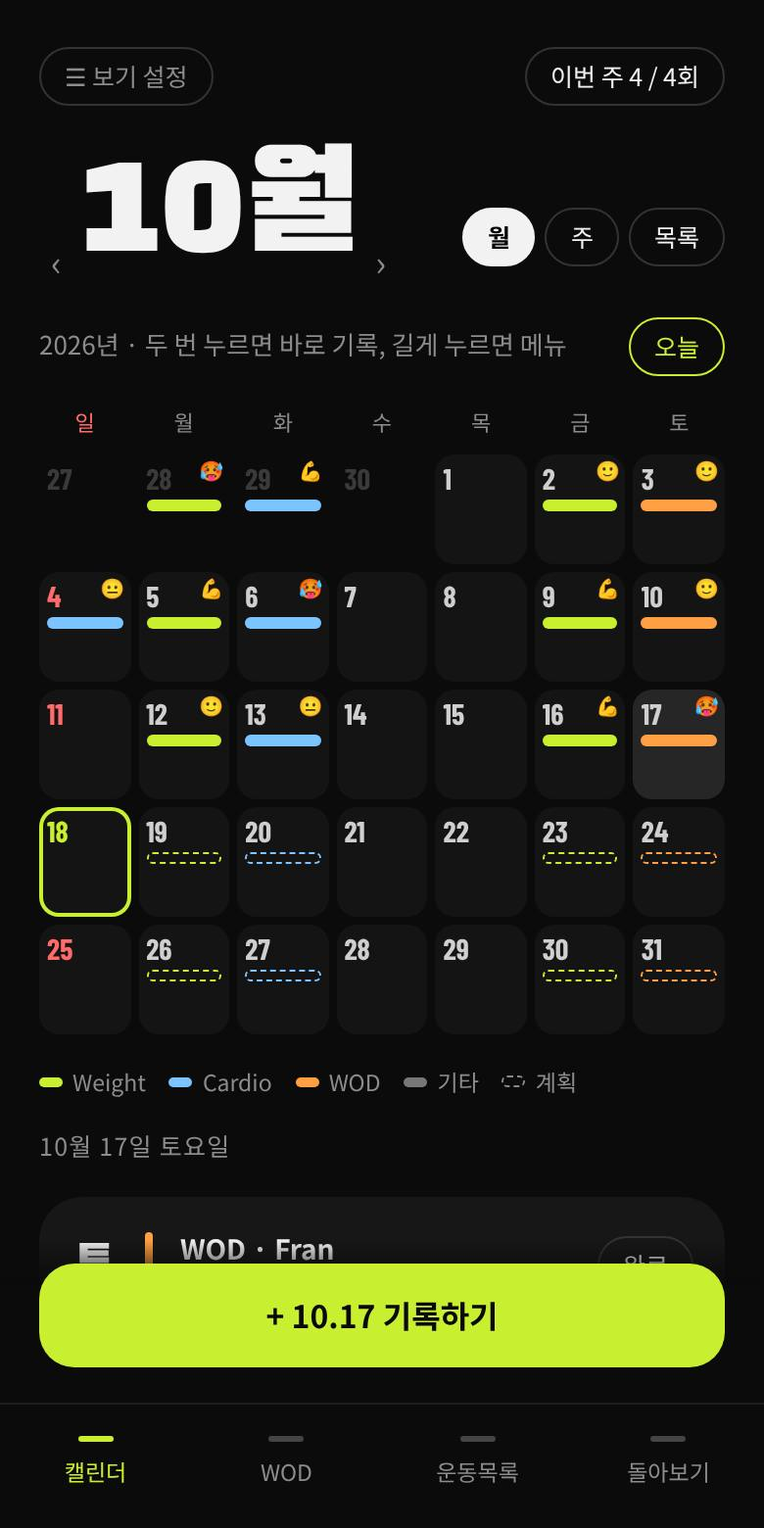
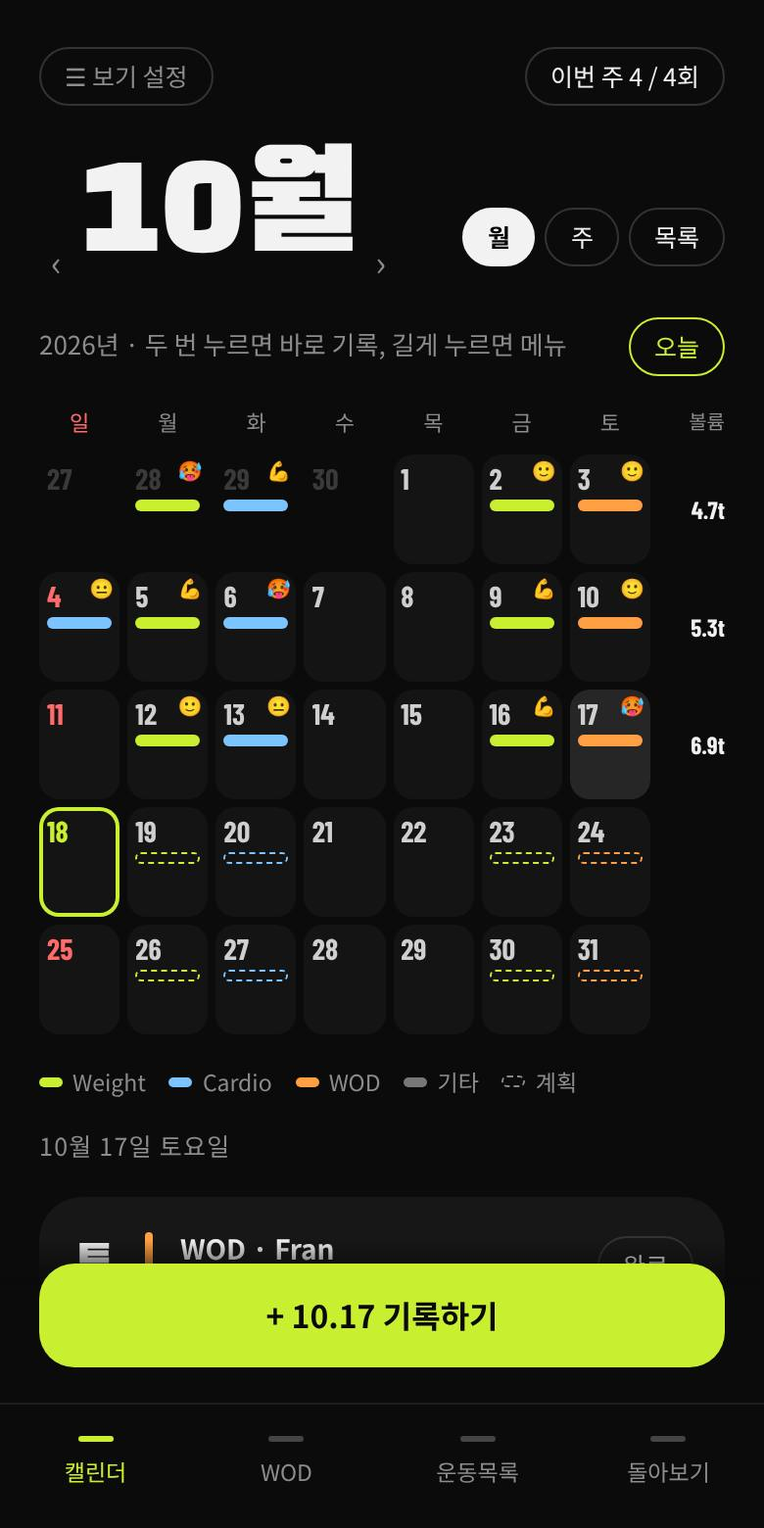
Volume: per card, per day, week/month in 돌아보기, week column in the calendar; clearer section divider
Claude-Session: https://claude.ai/code/session_019eoxjeUYsC1xCLQy9vy9QX

diff --git a/index.html b/index.html
@@ -80,6 +80,9 @@ button{cursor:pointer;-webkit-tap-highlight-color:transparent}
 .dow span{text-align:center;font-size:11px;color:var(--mut);padding-bottom:4px}
 .dow span:first-child{color:var(--red)}
 .wk{margin-top:4px}
+.cal.wvol .dow,.cal.wvol .wk{grid-template-columns:repeat(7,minmax(0,1fr)) 34px}
+.wk .wv{align-self:center;text-align:right;font-family:var(--num);font-weight:700;font-size:12.5px;color:var(--ink);white-space:nowrap}
+.dow .wv{text-align:right;font-size:10px}
 .dc{height:56px;min-width:0;border-radius:10px;background:#141414;border:0;padding:5px 4px;display:flex;flex-direction:column;gap:3px;position:relative;text-align:left;-webkit-touch-callout:none}
 .dc .d{font-family:var(--num);font-weight:700;font-size:15px;color:#cfcfcf;line-height:1}
 .dc.sun .d{color:var(--red)}
@@ -163,6 +166,21 @@ textarea.inp{resize:vertical;min-height:70px;line-height:1.6}
 .guide .gdots i{width:7px;height:7px;border-radius:9px;background:#333}
 .guide .gdots i.on{background:var(--lime);width:20px}
 .guide .gbtn{flex:none;margin:0 20px;width:auto;box-sizing:border-box}
+.vchart{display:flex;align-items:flex-end;gap:6px;height:140px}
+.vchart button{flex:1;min-width:0;height:100%;display:flex;flex-direction:column;justify-content:flex-end;align-items:center;gap:5px;background:none;border:0;padding:0}
+.vchart .b{width:100%;border-radius:6px 6px 3px 3px;background:#3a3a3a}
+.vchart .on .b{background:var(--lime)}
+.vchart .l{font-size:10.5px;color:var(--mut);white-space:nowrap;font-variant-numeric:tabular-nums}
+.vchart .on .l{color:var(--lime);font-weight:700}
+.vchart .v{font-family:var(--num);font-weight:700;font-size:13px}
+.vrow{display:flex;align-items:center;gap:10px;padding:8px 0;border-top:1px solid var(--line)}
+.vrow:first-child{border-top:0}
+.vrow i{display:inline-block;width:8px;height:8px;border-radius:50%;margin-right:7px;vertical-align:middle}
+.vrow .vtrack{flex:0 0 80px;height:8px;border-radius:4px;background:#262626;overflow:hidden;display:flex}
+.vrow .n{font-size:18px;min-width:56px;text-align:right}
+.cvol{border-top:1px solid rgba(0,0,0,.15);padding-top:10px;display:flex;flex-direction:column;gap:6px}
+.cvol .li{display:flex;justify-content:space-between;align-items:baseline;gap:10px;padding:5px 0;border-top:1px solid rgba(0,0,0,.12);font-weight:500}
+.cvol .li:first-child{border-top:0}
 .wsum{font-weight:500;line-height:1.55;padding:10px 0;border-top:1px solid rgba(0,0,0,.15);border-bottom:1px solid rgba(0,0,0,.15)}
 .wsum .sh{font-weight:800;margin-top:6px}
 .wsum .sh:first-child{margin-top:0}
@@ -189,7 +207,7 @@ textarea.inp{resize:vertical;min-height:70px;line-height:1.6}
 /* WOD card: frame (format + pattern chips) then exercise rows */
 .wc{display:flex;flex-direction:column;gap:10px}
 .part{display:flex;flex-direction:column;gap:8px}
-.part + .part{margin-top:18px;padding-top:20px;border-top:2px solid #2c2c2c}
+.part + .part{margin-top:22px;padding-top:22px;border-top:3px solid #5a5a5a}
 .lbl{font-size:12px;color:var(--mut);font-weight:700}
 .frame{background:#000;border:1px solid #2c2c2c;border-radius:16px;padding:10px;display:flex;flex-direction:column;gap:8px}
 .chips2{display:flex;gap:6px;flex-wrap:wrap}
@@ -621,6 +639,36 @@ function series(exId) {
   for (const s of sorted()) { let b = 0; for (const it of s.items) { if (it.type === 'ex' && it.exId === exId) for (const x of it.sets) b = Math.max(b, conv(e1rm(+x.w, +x.r), wuOf(it), U())); if (it.type === 'wod') for (const m of wodMoves(it)) if (m.exId === exId && m.sets) for (const x of m.sets) b = Math.max(b, conv(e1rm(+x.w, +x.r), m.u || 'kg', U())); } if (b) pts.push({date:s.date, v:Math.round(b*10)/10}); }
   return pts;
 }
+/* volume = weight x reps, added up in the chosen unit; moves without a weight count as reps, distances as km */
+const repsIn = q => { q = String(q || '').trim().replace(/\s*회$/, ''); let m;
+  if (/^\d+$/.test(q)) return +q;
+  if (/^\d+(\s*-\s*\d+)+$/.test(q)) return q.split('-').reduce((a, x) => a + +x, 0);
+  if ((m = q.match(/^(\d+)\s*[x×*]\s*(\d+)$/i))) return m[1] * m[2];
+  return 0; };
+const kmIn = q => { const m = String(q || '').trim().match(/^([\d.]+)\s*(km|m)$/i); return m ? (m[2].toLowerCase() === 'm' ? m[1] / 1000 : +m[1]) : 0; };
+const wIn = m => { const x = String(m.w || '').match(/[\d.]+/); return x ? conv(+x[0], mvUnit(m), U()) : 0; };
+function volOfItem(it) {
+  const v = {kg:0, reps:0, km:0, by:{}}, add = (name, kg) => { v.kg += kg; if (name) v.by[name] = (v.by[name] || 0) + kg; };
+  const sets = (name, list, fields, u, unit) => { for (const x of list || []) { const w = +x.w || 0, r = +x.r || 0;
+    if (w && r && fields.includes('w')) add(name, conv(w * r, u, U())); else if (r) v.reps += r;
+    if (x.d) v.km += unit === 'm' ? x.d / 1000 : +x.d || 0; } };
+  if (it.type === 'ex') { const ex = exById(it.exId) || {name:'', unit:'km'}; sets(ex.name, it.sets, it.fields || [], wuOf(it), ex.unit); return v; }
+  for (const p of it.parts || []) {
+    const rr = partRes(p) === 'rr' || (it.parts.length === 1 && resType(it) === 'rr'), rv = String((it.parts.length > 1 ? p.res?.v : it.res?.v) || '');
+    const rounds = pList(p).filter(x => x.t === 'rounds' && +x.v).reduce((a, x) => a * +x.v, 1) * (rr && /^\d+/.test(rv) ? +rv.match(/^\d+/)[0] : 1);
+    p.moves.forEach((m, j) => { const name = (m.n || '').trim(); if (!name) return;
+      if (m.sets?.length) return sets(name, m.sets, m.fields || ['w', 'r'], m.u || 'kg', mvEx(m)?.unit);
+      const r = repsIn(m.q) || (m.q ? 0 : repsIn(schemeAt(p, j))), w = wIn(m);
+      if (r && w) add(name, r * w * rounds); else if (r) v.reps += r * rounds; else v.km += kmIn(m.q) * rounds; });
+  }
+  return v;
+}
+const volSum = list => list.reduce((a, b) => ({kg:a.kg + b.kg, reps:a.reps + b.reps, km:a.km + b.km}), {kg:0, reps:0, km:0});
+const volOfSession = s => volSum(s.items.map(volOfItem));
+const volBetween = (from, to) => volSum(state.sessions.filter(s => s.date >= from && s.date <= to).map(volOfSession));
+const kgTxt = v => Math.round(v).toLocaleString('en-US');
+const kgShort = v => v >= 1000 ? `${Math.round(v / 100) / 10}${U() === 'kg' ? 't' : 'k'}` : `${Math.round(v)}`;
+const kmTxt = v => `${Math.round(v * 10) / 10}km`;
 function weekStats() {
   const days = new Set(state.sessions.map(s => s.date)), mon = mondayOf(new Date());
   const cnt = start => { let c = 0; for (let i = 0; i < 7; i++) if (days.has(ymd(addDays(start, i)))) c++; return c; };
@@ -657,11 +705,11 @@ function render(keep) {
 /* usage guide: example screenshots shown on the very first launch and again from 돌아보기 */
 const GUIDE_KEY = 'setlog-guide-seen';
 const GUIDE = [
-  ['캘린더', '날짜를 누르면 그날 기록이 보여요. 칸 아래 색 막대는 기록, 테두리만 있는 건 계획이에요.'],
+  ['캘린더', '날짜를 누르면 그날 기록과 볼륨이 보여요. 색 막대는 기록, 테두리만 있는 건 계획, 오른쪽 숫자는 그 주 볼륨이에요.'],
   ['기록하기', '+ 구성에서 세트를 넣으면 운동마다 세트별 무게와 횟수를 적어요. 지난 무게가 미리 채워져요.'],
   ['WOD 기록', '+ 구성을 누를 때마다 For Time, 21-15-9 같은 줄이 하나씩 쌓여요. + 구간은 A, B로 나눠 기록해요.'],
   ['WOD 모음', '네임드 WOD와 내가 만든 WOD를 저장해 두고 바로 불러와요. 네임드 WOD도 직접 추가할 수 있어요.'],
-  ['돌아보기', '주간 목표 연속 기록과 최근 12주, WOD 최고 기록을 봐요. 예상 1RM은 운동목록에서 운동을 누르면 나와요.']
+  ['돌아보기', '주간 목표 연속 기록과 주·달 볼륨, 최근 12주를 봐요. 예상 1RM은 운동목록에서 운동을 누르면 나와요.']
 ];
 function showGuide() {
   const g = $('#guide');
@@ -681,15 +729,16 @@ function viewCal() {
   const [vy, vm] = ui.month.split('-').map(Number), wk = weekStats(), t = TODAY();
   let body = '';
   if (ui.view === 'month') {
-    const first = new Date(vy, vm - 1, 1), start = addDays(first, -first.getDay()), rows = Math.ceil((first.getDay() + new Date(vy, vm, 0).getDate()) / 7);
+    const wv = state.weekVol !== false, first = new Date(vy, vm - 1, 1), start = addDays(first, -first.getDay()), rows = Math.ceil((first.getDay() + new Date(vy, vm, 0).getDate()) / 7);
     let h = '';
     for (let r = 0; r < rows; r++) { h += '<div class="wk">';
       for (let c = 0; c < 7; c++) { const d = addDays(start, r*7 + c), ds = ymd(d), ev = entriesOn(ds), mood = sessionsOn(ds)[0]?.mood;
         h += `<button class="dc ${d.getMonth() !== vm - 1 ? 'out' : ''} ${c === 0 ? 'sun' : ''} ${ds === t ? 'today' : ''} ${ds === ui.sel ? 'sel' : ''}" data-date="${ds}" aria-label="${dayLabel(ds)} ${ev.length ? ev.map(e => e.title).join(', ') : '기록 없음'}">
           <span class="d">${d.getDate()}</span>${mood ? `<span class="s">${mood}</span>` : ''}
           ${ev.slice(0, 2).map(e => `<span class="b ${e.kind === 'p' ? 'plan' : ''}" style="${e.kind === 'p' ? 'border-color' : 'background'}:${catOf(e.cat).color}"></span>`).join('')}</button>`; }
+      if (wv) { const v = volBetween(ymd(addDays(start, r*7)), ymd(addDays(start, r*7 + 6))); h += `<span class="wv">${v.kg ? kgShort(v.kg) : v.km ? kmTxt(v.km) : ''}</span>`; }
       h += '</div>'; }
-    body = `<div class="cal" id="cal"><div class="dow">${WD.map(w => `<span>${w}</span>`).join('')}</div>${h}</div>`;
+    body = `<div class="cal ${wv ? 'wvol' : ''}" id="cal"><div class="dow">${WD.map(w => `<span>${w}</span>`).join('')}${wv ? '<span class="wv">볼륨</span>' : ''}</div>${h}</div>`;
   } else if (ui.view === 'week') {
     const s = parseYmd(ui.sel), ws = addDays(s, -s.getDay());
     body = `<div class="card list cal" id="cal" style="padding:6px 16px">${Array.from({length:7}, (_, i) => { const d = addDays(ws, i), ds = ymd(d), ev = entriesOn(ds);
@@ -723,13 +772,43 @@ function entryRow(e, ds) {
 }
 
 /* day view */
+/* the whole day's volume, split by record */
+/* 돌아보기: volume by week (last 8, Monday start) or by month (last 6); a bar can be picked to see its split */
+function volPeriods(mode) { const now = new Date(), out = [];
+  if (mode === 'm') for (let k = 5; k >= 0; k--) { const a = new Date(now.getFullYear(), now.getMonth() - k, 1), b = new Date(a.getFullYear(), a.getMonth() + 1, 0); out.push({from:ymd(a), to:ymd(b), label:`${a.getMonth() + 1}월`, now:!k}); }
+  else for (let k = 7; k >= 0; k--) { const a = addDays(mondayOf(now), -7 * k); out.push({from:ymd(a), to:ymd(addDays(a, 6)), label:k ? md(ymd(a)) : '이번 주', now:!k}); }
+  return out.map(p => { const ss = state.sessions.filter(s => s.date >= p.from && s.date <= p.to); return {...p, ss, v:volSum(ss.map(volOfSession))}; }); }
+function volCardHtml() {
+  const mode = ui.volMode || 'w', ps = volPeriods(mode), k = ui.volSel ?? ps.length - 1, sel = ps[Math.min(k, ps.length - 1)], prev = ps[ps.indexOf(sel) - 1];
+  const max = Math.max(...ps.map(p => p.v.kg), 1), big = mode === 'm' && sel.v.kg >= 10000;
+  const byCat = {}; for (const s of sel.ss) { const c = sessionCat(s), v = volOfSession(s); byCat[c] = byCat[c] || {kg:0, km:0, reps:0}; byCat[c].kg += v.kg; byCat[c].km += v.km; byCat[c].reps += v.reps; }
+  const pct = prev?.v.kg ? Math.round((sel.v.kg - prev.v.kg) / prev.v.kg * 100) : null;
+  return `<div class="card" style="display:flex;flex-direction:column;gap:10px">
+    <div class="row between"><b>볼륨</b><div class="row" style="gap:4px">${[['w','주'],['m','달']].map(([v, l]) => `<button class="pill" aria-pressed="${mode === v}" data-action="vol-mode" data-v="${v}">${l}</button>`).join('')}</div></div>
+    <div class="row" style="align-items:flex-end"><span class="n" style="font-size:52px">${big ? Math.round(sel.v.kg / 100) / 10 : kgTxt(sel.v.kg)}</span><span class="unit">${big ? (U() === 'kg' ? '톤' : 'K LB') : U().toUpperCase()} ${sel.now ? (mode === 'm' ? '이번 달' : '이번 주') : sel.label}</span></div>
+    <div class="sub">${pct !== null ? `${mode === 'm' ? '지난달' : '지난주'}보다 <b style="color:var(--lime)">${pct >= 0 ? '+' : ''}${pct}%</b> · ` : ''}운동 ${sel.ss.length}번</div>
+    <div class="vchart">${ps.map((p, n) => `<button class="${p === sel ? 'on' : ''}" data-action="vol-pick" data-v="${n}" aria-label="${p.label} 볼륨 ${kgTxt(p.v.kg)}${U()}">${p === sel ? `<span class="v">${kgShort(p.v.kg)}</span>` : ''}<span class="b" style="height:${Math.max(2, Math.round(p.v.kg / max * 100))}%"></span><span class="l">${p.label}</span></button>`).join('')}</div>
+    ${Object.keys(byCat).length ? `<div>${Object.entries(byCat).sort((a, b) => b[1].kg - a[1].kg).map(([c, v]) => `<div class="vrow"><span class="grow"><i style="background:${catOf(c).color}"></i>${esc(catOf(c).label)}</span>${v.kg ? `<span class="n">${kgTxt(v.kg)}</span>` : `<span class="sub">${[v.km ? kmTxt(v.km) : '', v.reps ? v.reps + '회' : ''].filter(Boolean).join(' · ') || '-'}</span>`}</div>`).join('')}</div>` : '<div class="empty">이 기간에는 기록이 없어요.</div>'}
+    <div class="sub" style="font-size:11.5px">무게 × 횟수를 모두 더해요. 무게 없는 운동은 횟수, 달리기는 거리로 따로 세요.</div></div>`;
+}
+function dayVolHtml(ds, list) {
+  const rows = list.map(s => ({s, v:volOfSession(s)})), t = volSum(rows.map(r => r.v)), dur = list.reduce((a, s) => a + (+s.duration || 0), 0);
+  if (!t.kg && !t.reps && !t.km) return '';
+  const wk = ymd(addDays(parseYmd(ds), -7)), last = volBetween(wk, wk).kg, d = t.kg - last, max = Math.max(...rows.map(r => r.v.kg), 1);
+  const pills = [t.km ? `거리 ${kmTxt(t.km)}` : '', dur ? `운동 시간 ${dur}분` : '', t.reps ? `맨몸 ${t.reps}회` : ''].filter(Boolean);
+  return `<div class="card" style="display:flex;flex-direction:column;gap:10px">
+    <div class="row between"><b>그날 볼륨</b>${last && t.kg ? `<span class="sub" style="font-size:12px">지난주 ${WD[parseYmd(ds).getDay()]}요일보다 <b style="color:var(--lime)">${d >= 0 ? '+' : '−'}${kgTxt(Math.abs(d))}${U()}</b></span>` : ''}</div>
+    ${t.kg ? `<div class="row" style="align-items:flex-end"><span class="n" style="font-size:56px;color:var(--lime)">${kgTxt(t.kg)}</span><span class="unit">${U().toUpperCase()}</span></div>` : ''}
+    ${pills.length ? `<div class="row wrap" style="gap:6px">${pills.map(p => `<span class="pill">${p}</span>`).join('')}</div>` : ''}
+    ${rows.length > 1 ? `<div>${rows.map(({s, v}) => `<div class="vrow"><span class="grow"><i style="background:${catOf(sessionCat(s)).color}"></i>${esc(s.title || '운동')}</span>${v.kg ? `<span class="vtrack"><span style="width:${Math.round(v.kg / max * 100)}%;background:${catOf(sessionCat(s)).color}"></span></span><span class="n">${kgTxt(v.kg)}</span>` : `<span class="sub">${[v.km ? kmTxt(v.km) : '', v.reps ? v.reps + '회' : ''].filter(Boolean).join(' · ')}</span>`}</div>`).join('')}</div>` : ''}</div>`;
+}
 function pageDay() {
   const ds = ui.dayDate, list = sessionsOn(ds);
   const dates = [...new Set(sorted().map(s => s.date))], i = dates.indexOf(ds);
   const prev = dates[i - 1], next = dates[i + 1];
   if (!list.length) return `<div class="row between"><button class="pill" data-action="close-page">‹ 캘린더</button></div><div class="empty">이날은 기록이 없어요.</div>`;
   return `<div class="row between"><button class="pill" data-action="close-page">‹ 캘린더</button><div class="row" style="gap:4px"><button class="icon" data-action="day-nav" data-v="${prev || ''}" ${prev ? '' : 'disabled style="opacity:.25"'} aria-label="이전 기록">‹</button><span class="eb">${md(ds)} ${WD[parseYmd(ds).getDay()]}</span><button class="icon" data-action="day-nav" data-v="${next || ''}" ${next ? '' : 'disabled style="opacity:.25"'} aria-label="다음 기록">›</button></div><span style="width:70px"></span></div>
-  <div id="daySwipe" style="touch-action:pan-y;display:flex;flex-direction:column;gap:16px">${list.map(s => {
+  <div id="daySwipe" style="touch-action:pan-y;display:flex;flex-direction:column;gap:16px">${dayVolHtml(ds, list)}${list.map(s => {
     const plan = state.plans.find(p => p.id === s.planId);
     let hero = null;
     for (const it of s.items) { if (it.type === 'ex') { const b = bestSet(it); if (b && (!hero || b.v > hero.v)) hero = {...b, name:exById(it.exId)?.name, exId:it.exId}; } }
@@ -862,7 +941,14 @@ function wodSum(it) {
     const any = p.moves.some(m => m.n.trim()), ms = partFlow(p, t => `<div class="sh">${esc(t)}</div>`, (m, j) => m.n.trim() ? `<div>${esc([m.q ? qTxt(m.q) : schemeAt(p, j), m.n.trim(), m.w].filter(Boolean).join(' '))}</div>` : '');
     return `${head ? `<div class="sh">${esc(head)}</div>` : ''}${ms}${any ? '' : '<div style="opacity:.5">운동을 적으면 여기에 보여요</div>'}`; }).join('');
 }
-function updateSum(i) { const el = document.getElementById(`wsum-${i}`), it = curItems()?.[+i]; if (el && it?.type === 'wod') el.innerHTML = wodSum(it); const pv = document.querySelector(`[data-respv="${i}"]`); if (pv && it?.type === 'wod') pv.textContent = wodResult(it) || '-'; }
+function updateSum(i) { const el = document.getElementById(`wsum-${i}`), it = curItems()?.[+i]; const vb = document.getElementById(`wvol-${i}`); if (vb && it?.type === 'wod') vb.innerHTML = cardVolHtml(it); if (el && it?.type === 'wod') el.innerHTML = wodSum(it); const pv = document.querySelector(`[data-respv="${i}"]`); if (pv && it?.type === 'wod') pv.textContent = wodResult(it) || '-'; }
+/* the card's own volume, under its result */
+function cardVolHtml(it) { const v = volOfItem(it), by = Object.entries(v.by).sort((a, b) => b[1] - a[1]);
+  if (!v.kg && !v.reps && !v.km) return '';
+  const extra = [v.reps ? `맨몸 ${v.reps}회` : '', v.km ? kmTxt(v.km) : ''].filter(Boolean).join(' · ');
+  return `<div class="cvol"><div class="row between"><span class="eb" style="font-weight:700">이 카드 볼륨</span>${extra ? `<span class="eb" style="font-weight:700">${extra}</span>` : ''}</div>
+    ${v.kg ? `<div class="row" style="align-items:flex-end"><span class="n" style="font-size:48px">${kgTxt(v.kg)}</span><span class="unit" style="color:var(--lime-sub)">${U().toUpperCase()}</span></div>
+    ${by.length > 1 ? `<div>${by.map(([n, kg]) => `<div class="li"><span>${esc(n)}</span><span class="n" style="font-size:19px">${kgTxt(kg)}</span></div>`).join('')}</div>` : ''}` : ''}</div>`; }
 function wodResultBox(it, i) {
   const type = resType(it), b = bestWod(it.wodId, ui.draft?.id), st = it.res?.status || '';
   const on = 'background:#000;color:var(--lime);border-color:#000;font-weight:700', off = 'border-color:#000;color:#000';
@@ -873,6 +959,7 @@ function wodResultBox(it, i) {
       <div class="row" style="gap:6px">${[['', '기록'], ['DNF', 'DNF'], ['DONE', 'DONE']].map(([v, l]) => `<button class="pill" style="${st === v ? on : off}" data-action="res-status" data-i="${i}" data-v="${v}">${l}</button>`).join('')}</div>
       ${st === 'DNF' ? `<div class="res"><label>못 채운 렙 (−)<input data-i="${i}" data-res="short" inputmode="numeric" value="${esc(String(it.res?.short ?? '').replace(/^-/, ''))}" placeholder="6"></label></div>` : ''}
       ${type === 'done' && !st ? '<div class="sub" style="font-weight:500">다 했으면 DONE, 못 채웠으면 DNF를 눌러요</div>' : `<div class="res"><label>${st === 'DNF' ? '적고 싶을 때만' : RES_TYPES[type].label}${resInput(`data-i="${i}" data-res="v" class="${type === 'text' ? 'txt' : ''}"`, it.res?.v, type)}</label></div>`}
+      <div id="wvol-${i}">${cardVolHtml(it)}</div>
       <div class="sub" style="font-weight:500">결과: <b data-respv="${i}">${esc(wodResult(it) || '-')}</b></div>
       ${it.wodId ? b ? `<div class="sub" style="font-weight:500">내 최고 ${esc(b.txt)} (${md(b.date)})</div>` : '<div class="sub">이 WOD의 첫 기록이에요</div>' : ''}
     </div>`;
@@ -1035,6 +1122,7 @@ function viewStats() {
   <div class="hero"><div class="row between"><span class="eb" style="font-weight:700">주간 목표 연속 달성</span><span class="eb" style="font-weight:700">주 ${state.goal}회 · 이번 주 ${wk.count}회</span></div>
     <div class="row" style="align-items:flex-end"><span class="n" style="font-size:104px">${wk.streak}</span><span class="disp" style="font-size:30px;padding:0 0 10px 6px">주째</span></div>
     <div class="sub" style="font-weight:500">최근 4주 계획 지킴 ${keep.rate}% · ${keep.due - keep.kept ? `놓친 계획 ${keep.due - keep.kept}개` : '놓친 계획 없음'}</div></div>
+  ${volCardHtml()}
   <div class="card"><div class="row between" style="margin-bottom:10px"><b>최근 12주</b><span class="sub" style="font-size:12px">칸을 누르면 그날 기록</span></div><div class="heat">${heat}</div><div class="hlab">${[0, 4, 8].map(w => `<span style="grid-column:${w + 1} / span 2">${md(ymd(addDays(start, 7*w)))}~</span>`).join('')}<span>이번 주 ▲</span></div></div>
   ${wods.length ? `<div class="card list" style="padding:4px 18px">${wods.map(({w, b}) => `<button class="it" data-action="wod-detail" data-id="${w.id}"><span class="bar" style="background:var(--orange);height:20px"></span><span class="grow t">${esc(w.name)}</span><span class="n" style="font-size:24px">${esc(b.txt)}</span></button>`).join('')}</div>` : ''}
   <div class="card" style="display:flex;flex-direction:column;gap:10px"><div class="row between"><b>테마 색</b><span class="sub" style="font-size:12px">${theme().label}</span></div>
@@ -1081,6 +1169,7 @@ function sheetCatFilter() {
     <div class="row between"><span class="eb">카테고리</span><button class="pill" data-action="cats-edit">편집</button></div>
     <div class="card list" style="padding:2px 16px">${cats().map(c => `<label class="cat-row"><input type="checkbox" data-catf="${c.k}" ${ui.hidden.includes(c.k) ? '' : 'checked'}><span class="bar" style="background:${c.color};height:16px"></span><span class="grow">${c.label}</span></label>`).join('')}</div>
     <div class="card row between"><span>무게 단위</span><span class="unitsw">${['kg','lb'].map(u => `<button aria-pressed="${U() === u}" data-action="unit" data-v="${u}">${u}</button>`).join('')}</span></div>
+    <div class="card row between"><span>주별 볼륨 표시</span><span class="unitsw">${[['on','켜기'],['off','끄기']].map(([v, l]) => `<button aria-pressed="${(state.weekVol !== false) === (v === 'on')}" data-action="week-vol" data-v="${v}">${l}</button>`).join('')}</span></div>
     <div class="card row between"><span>주간 목표</span><div class="row" style="gap:10px"><button class="circle" data-action="goal" data-v="-1" aria-label="줄이기">−</button><span class="n" style="font-size:30px">${state.goal}</span><button class="circle" data-action="goal" data-v="1" aria-label="늘리기">+</button></div></div>
     <button class="btn lime" data-action="close-sheet">확인</button>`);
 }
@@ -1261,6 +1350,7 @@ const A = {
   'close-sheet': () => closeSheet(),
   'close-page': () => { ui.page = null; ui.confirm = null; render(); },
   'cat-filter': () => sheetCatFilter(),
+  'week-vol': el => { state.weekVol = el.dataset.v === 'on'; save(); render(true); refreshSheet(); },
   goal: el => { state.goal = Math.min(7, Math.max(1, state.goal + +el.dataset.v)); save(); render(true); refreshSheet(); },
   view: el => { ui.view = el.dataset.v; render(true); },
   month: el => shiftMonth(+el.dataset.v),
@@ -1276,6 +1366,8 @@ const A = {
   'day-nav': el => { if (el.dataset.v) { ui.dayDate = el.dataset.v; render(); } },
   'edit-session': el => openEditor(JSON.parse(JSON.stringify(state.sessions.find(s => s.id === el.dataset.id)))),
   'del-session': el => { const k = 'del-' + el.dataset.id; if (ui.confirm !== k) { ui.confirm = k; return render(true); } state.sessions = state.sessions.filter(s => s.id !== el.dataset.id); save(); ui.confirm = null; if (!sessionsOn(ui.dayDate).length) ui.page = null; render(); toast('기록을 삭제했어요'); },
+  'vol-mode': el => { ui.volMode = el.dataset.v; ui.volSel = null; render(true); },
+  'vol-pick': el => { ui.volSel = +el.dataset.v; render(true); },
   'stat-ex-go': el => sheetExHistory(el.dataset.v),
   // editor
   'cancel-edit': () => { const dirty = ui.draft.items.some(it => !isBlankCard(it)) || ui.draft.memo || ui.draft.title; if (dirty && !ui.draft.id && ui.confirm !== 'cancel') { ui.confirm = 'cancel'; return render(true); } ui.page = ui.draft.id ? 'day' : null; ui.confirm = null; ui.grouping = false; ui.frEdit = false; render(); },
@@ -1495,7 +1587,7 @@ const A = {
   },
   'del-ex': () => { if (ui.confirm !== 'del-ex') { ui.confirm = 'del-ex'; return refreshSheet(); } state.exercises = state.exercises.filter(e => e.id !== ui.exd.id); save(); ui.confirm = null; closeSheet(); render(true); toast('운동을 삭제했어요'); },
   // stats
-  wipe: () => { if (ui.confirm !== 'wipe') { ui.confirm = 'wipe'; return render(true); } state = migrate({exercises:seedExercises(), mine:[], named:[], sessions:[], plans:[], goal:state.goal, unit:state.unit, wodTabs:state.wodTabs, cats:state.cats, exCats:state.exCats, formats:state.formats, patterns:state.patterns, theme:state.theme}); ui.confirm = null; save(); ui.tab = 'cal'; render(); toast('모든 기록을 지웠어요'); },
+  wipe: () => { if (ui.confirm !== 'wipe') { ui.confirm = 'wipe'; return render(true); } state = migrate({exercises:seedExercises(), mine:[], named:[], sessions:[], plans:[], goal:state.goal, weekVol:state.weekVol, unit:state.unit, wodTabs:state.wodTabs, cats:state.cats, exCats:state.exCats, formats:state.formats, patterns:state.patterns, theme:state.theme}); ui.confirm = null; save(); ui.tab = 'cal'; render(); toast('모든 기록을 지웠어요'); },
   export: () => {
     const blob = new Blob([JSON.stringify({app:'setlog', v:1, saved:new Date().toISOString(), state}, null, 1)], {type:'application/json'});
     const a = document.createElement('a'); a.href = URL.createObjectURL(blob); a.download = `setlog-backup-${TODAY()}.json`; document.body.appendChild(a); a.click(); a.remove();

diff --git a/sw.js b/sw.js
@@ -1,4 +1,4 @@
-const C = 'setlog-1792363470001';
+const C = 'setlog-1792364247357';
 const CORE = ['./', 'index.html', 'manifest.webmanifest', 'icon-192.png', 'icon-512.png', 'apple-touch-icon.png', 'guide/1.jpg', 'guide/2.jpg', 'guide/3.jpg', 'guide/4.jpg', 'guide/5.jpg'];
 self.addEventListener('install', e => { e.waitUntil(caches.open(C).then(c => c.addAll(CORE)).then(() => self.skipWaiting())); });
 self.addEventListener('activate', e => { e.waitUntil(caches.keys().then(ks => Promise.all(ks.filter(k => k !== C).map(k => caches.delete(k)))).then(() => self.clients.claim())); });
